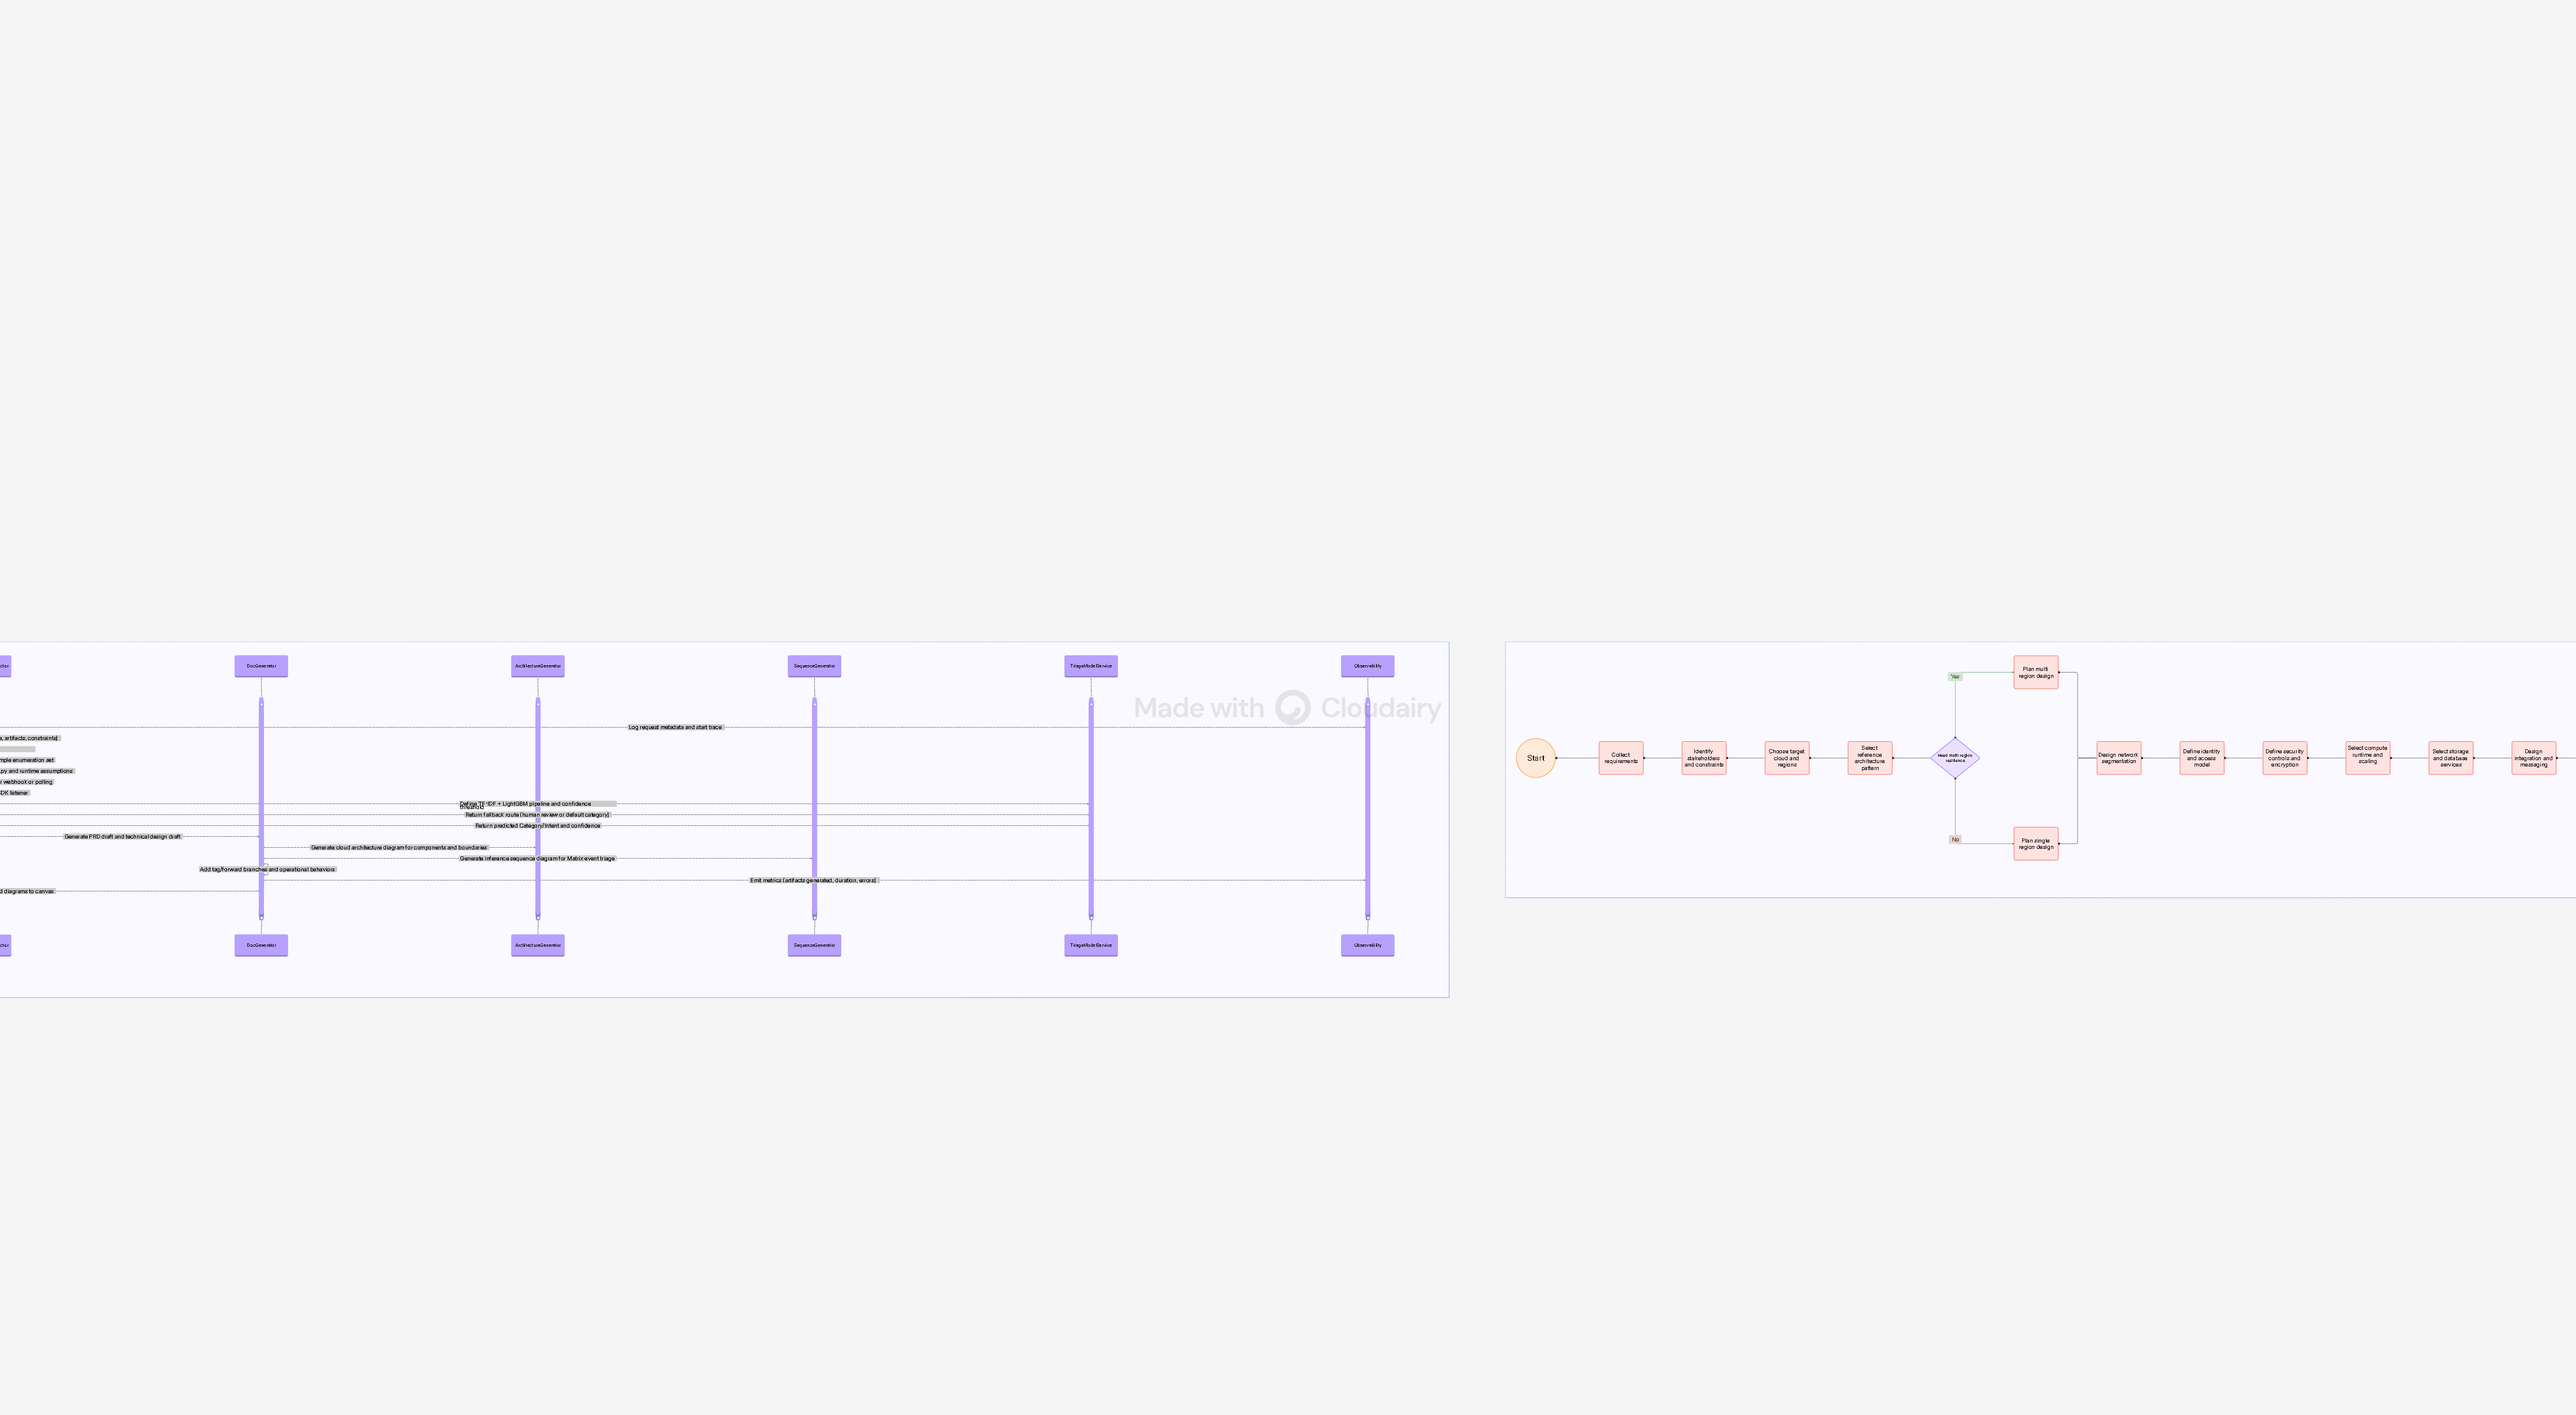
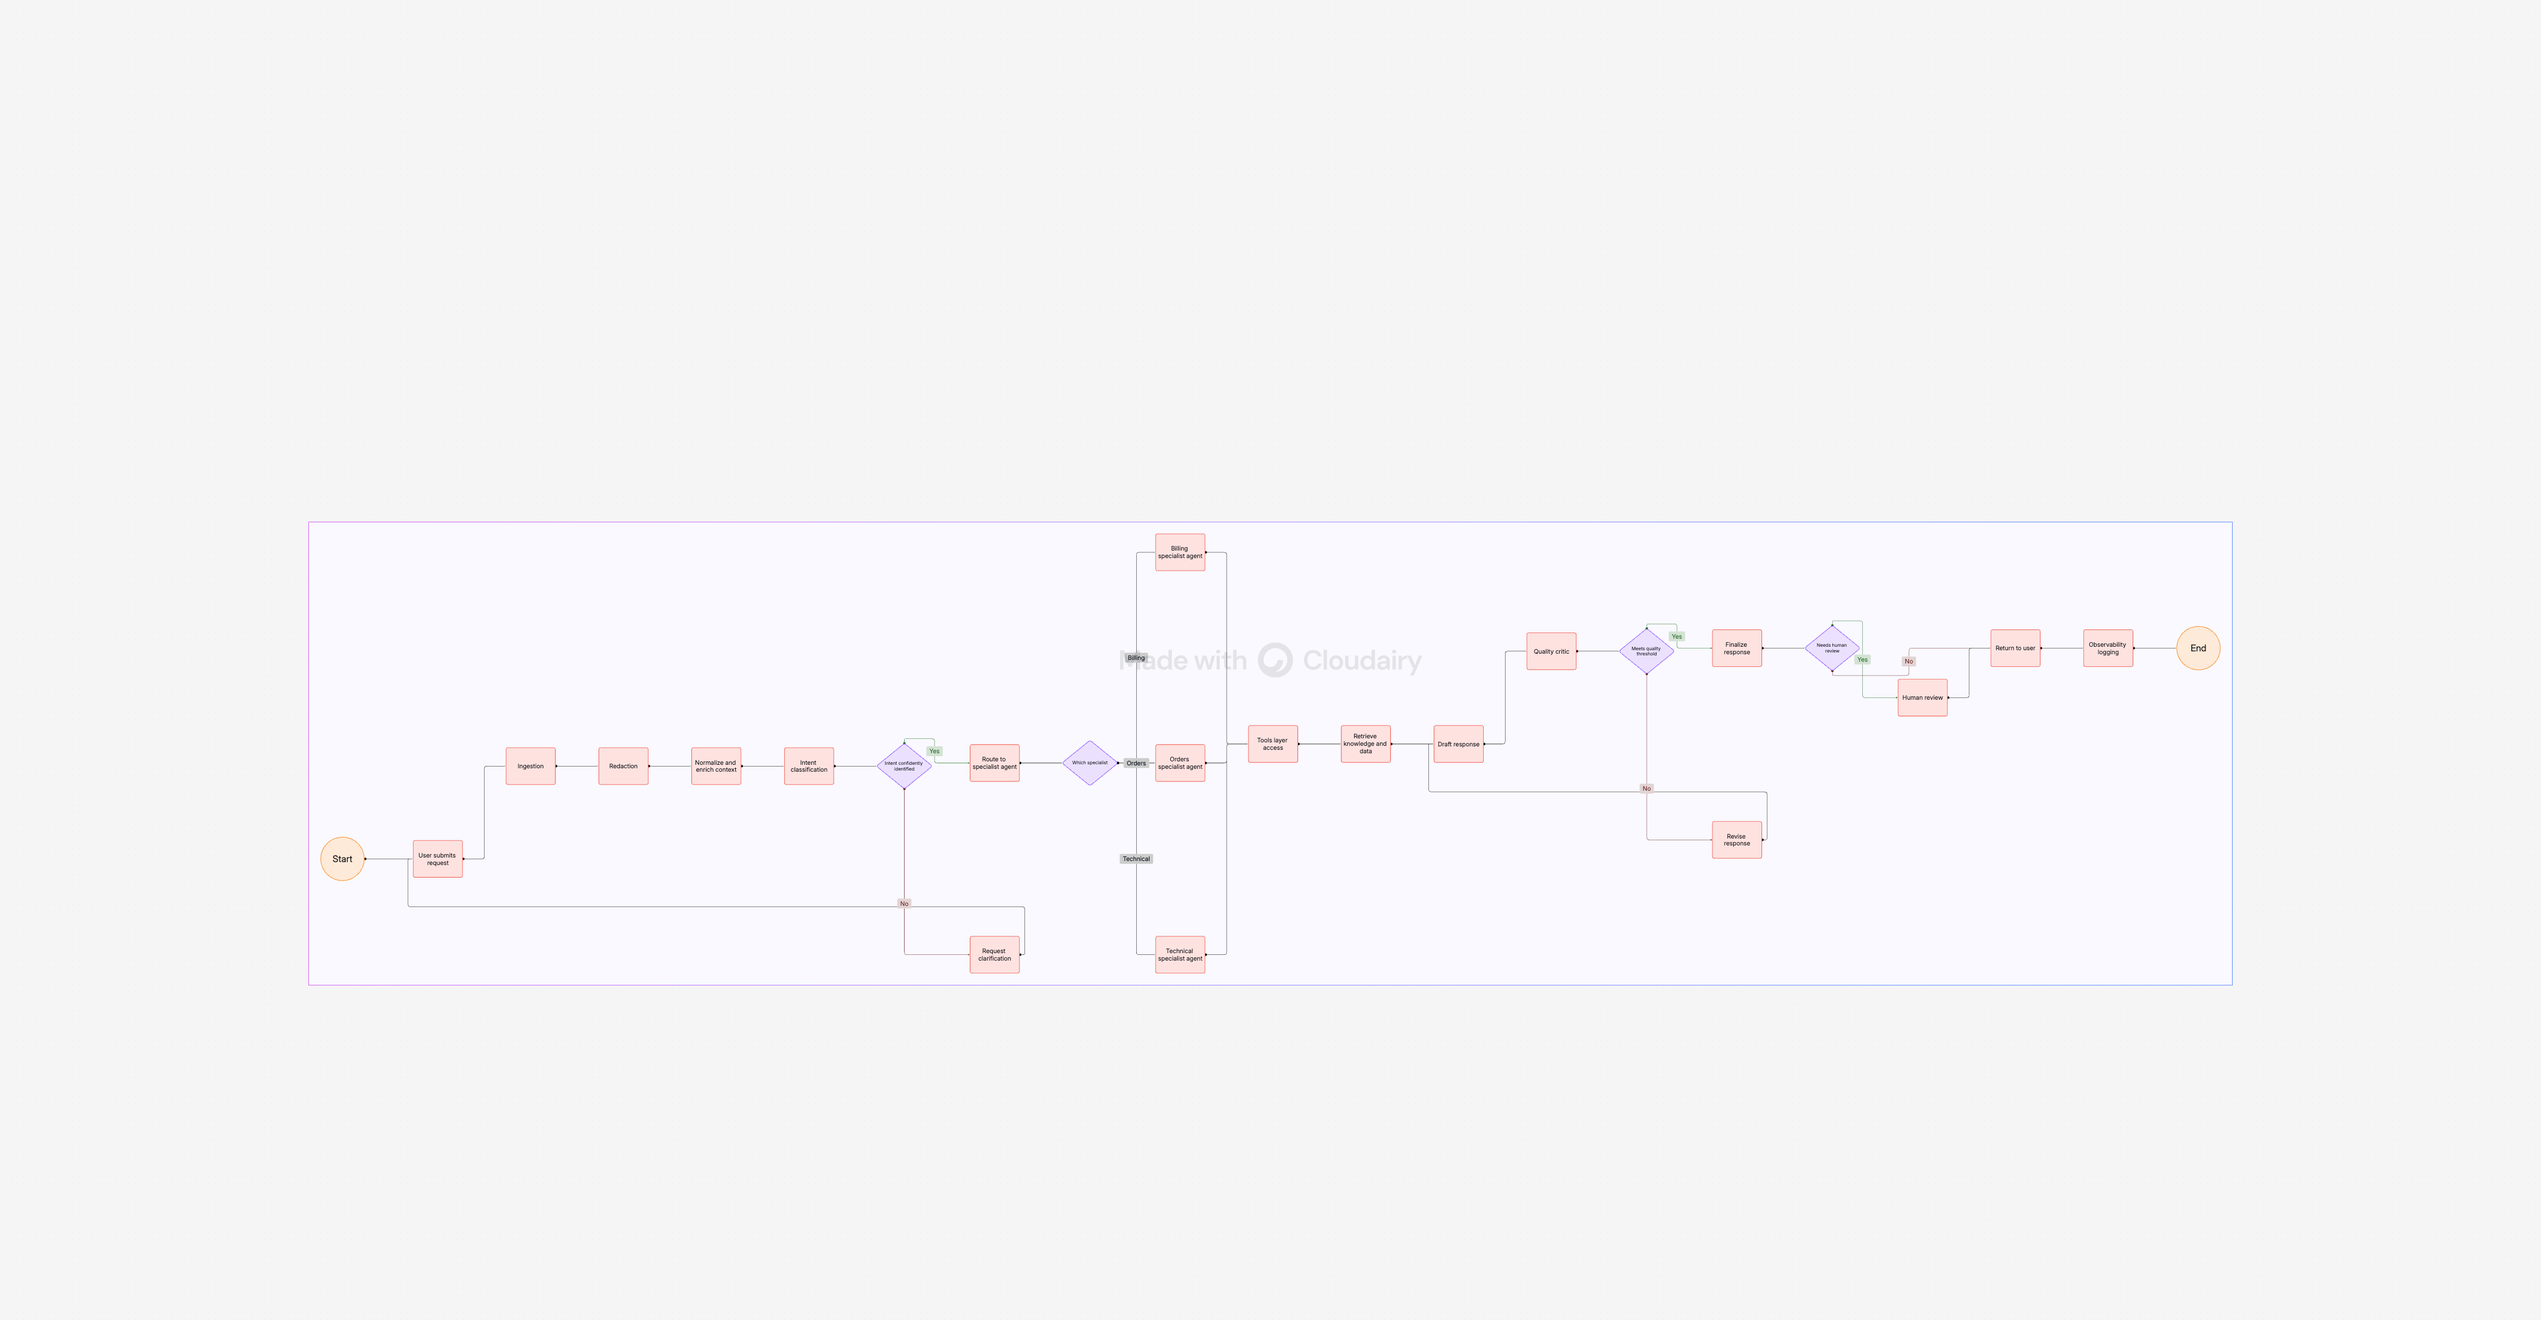
feat: updated docs

diff --git a/experiments/profile_dataset.py b/experiments/profile_dataset.py
@@ -1,0 +1,36 @@
+import pandas as pd
+from datasets import load_dataset
+import os
+
+def main():
+    print("Loading dataset from Hugging Face...")
+    dataset = load_dataset(
+        "bitext/Bitext-customer-support-llm-chatbot-training-dataset"
+    )
+    
+    print("Loading data into pandas DataFrame...")
+    df = dataset["train"].to_pandas()
+    
+    print("\n" + "="*50)
+    print("Ticket Distribution (Category)")
+    print("="*50)
+    if 'category' in df.columns:
+        print(df['category'].value_counts(dropna=False))
+    else:
+        print("Column 'category' not found.")
+        
+    print("\n" + "="*50)
+    print("Intent Analysis (Intent)")
+    print("="*50)
+    if 'intent' in df.columns:
+        print(df['intent'].value_counts(dropna=False))
+    else:
+        print("Column 'intent' not found.")
+        
+    print("\n" + "="*50)
+    print("Dataset Info")
+    print("="*50)
+    df.info()
+
+if __name__ == "__main__":
+    main()
